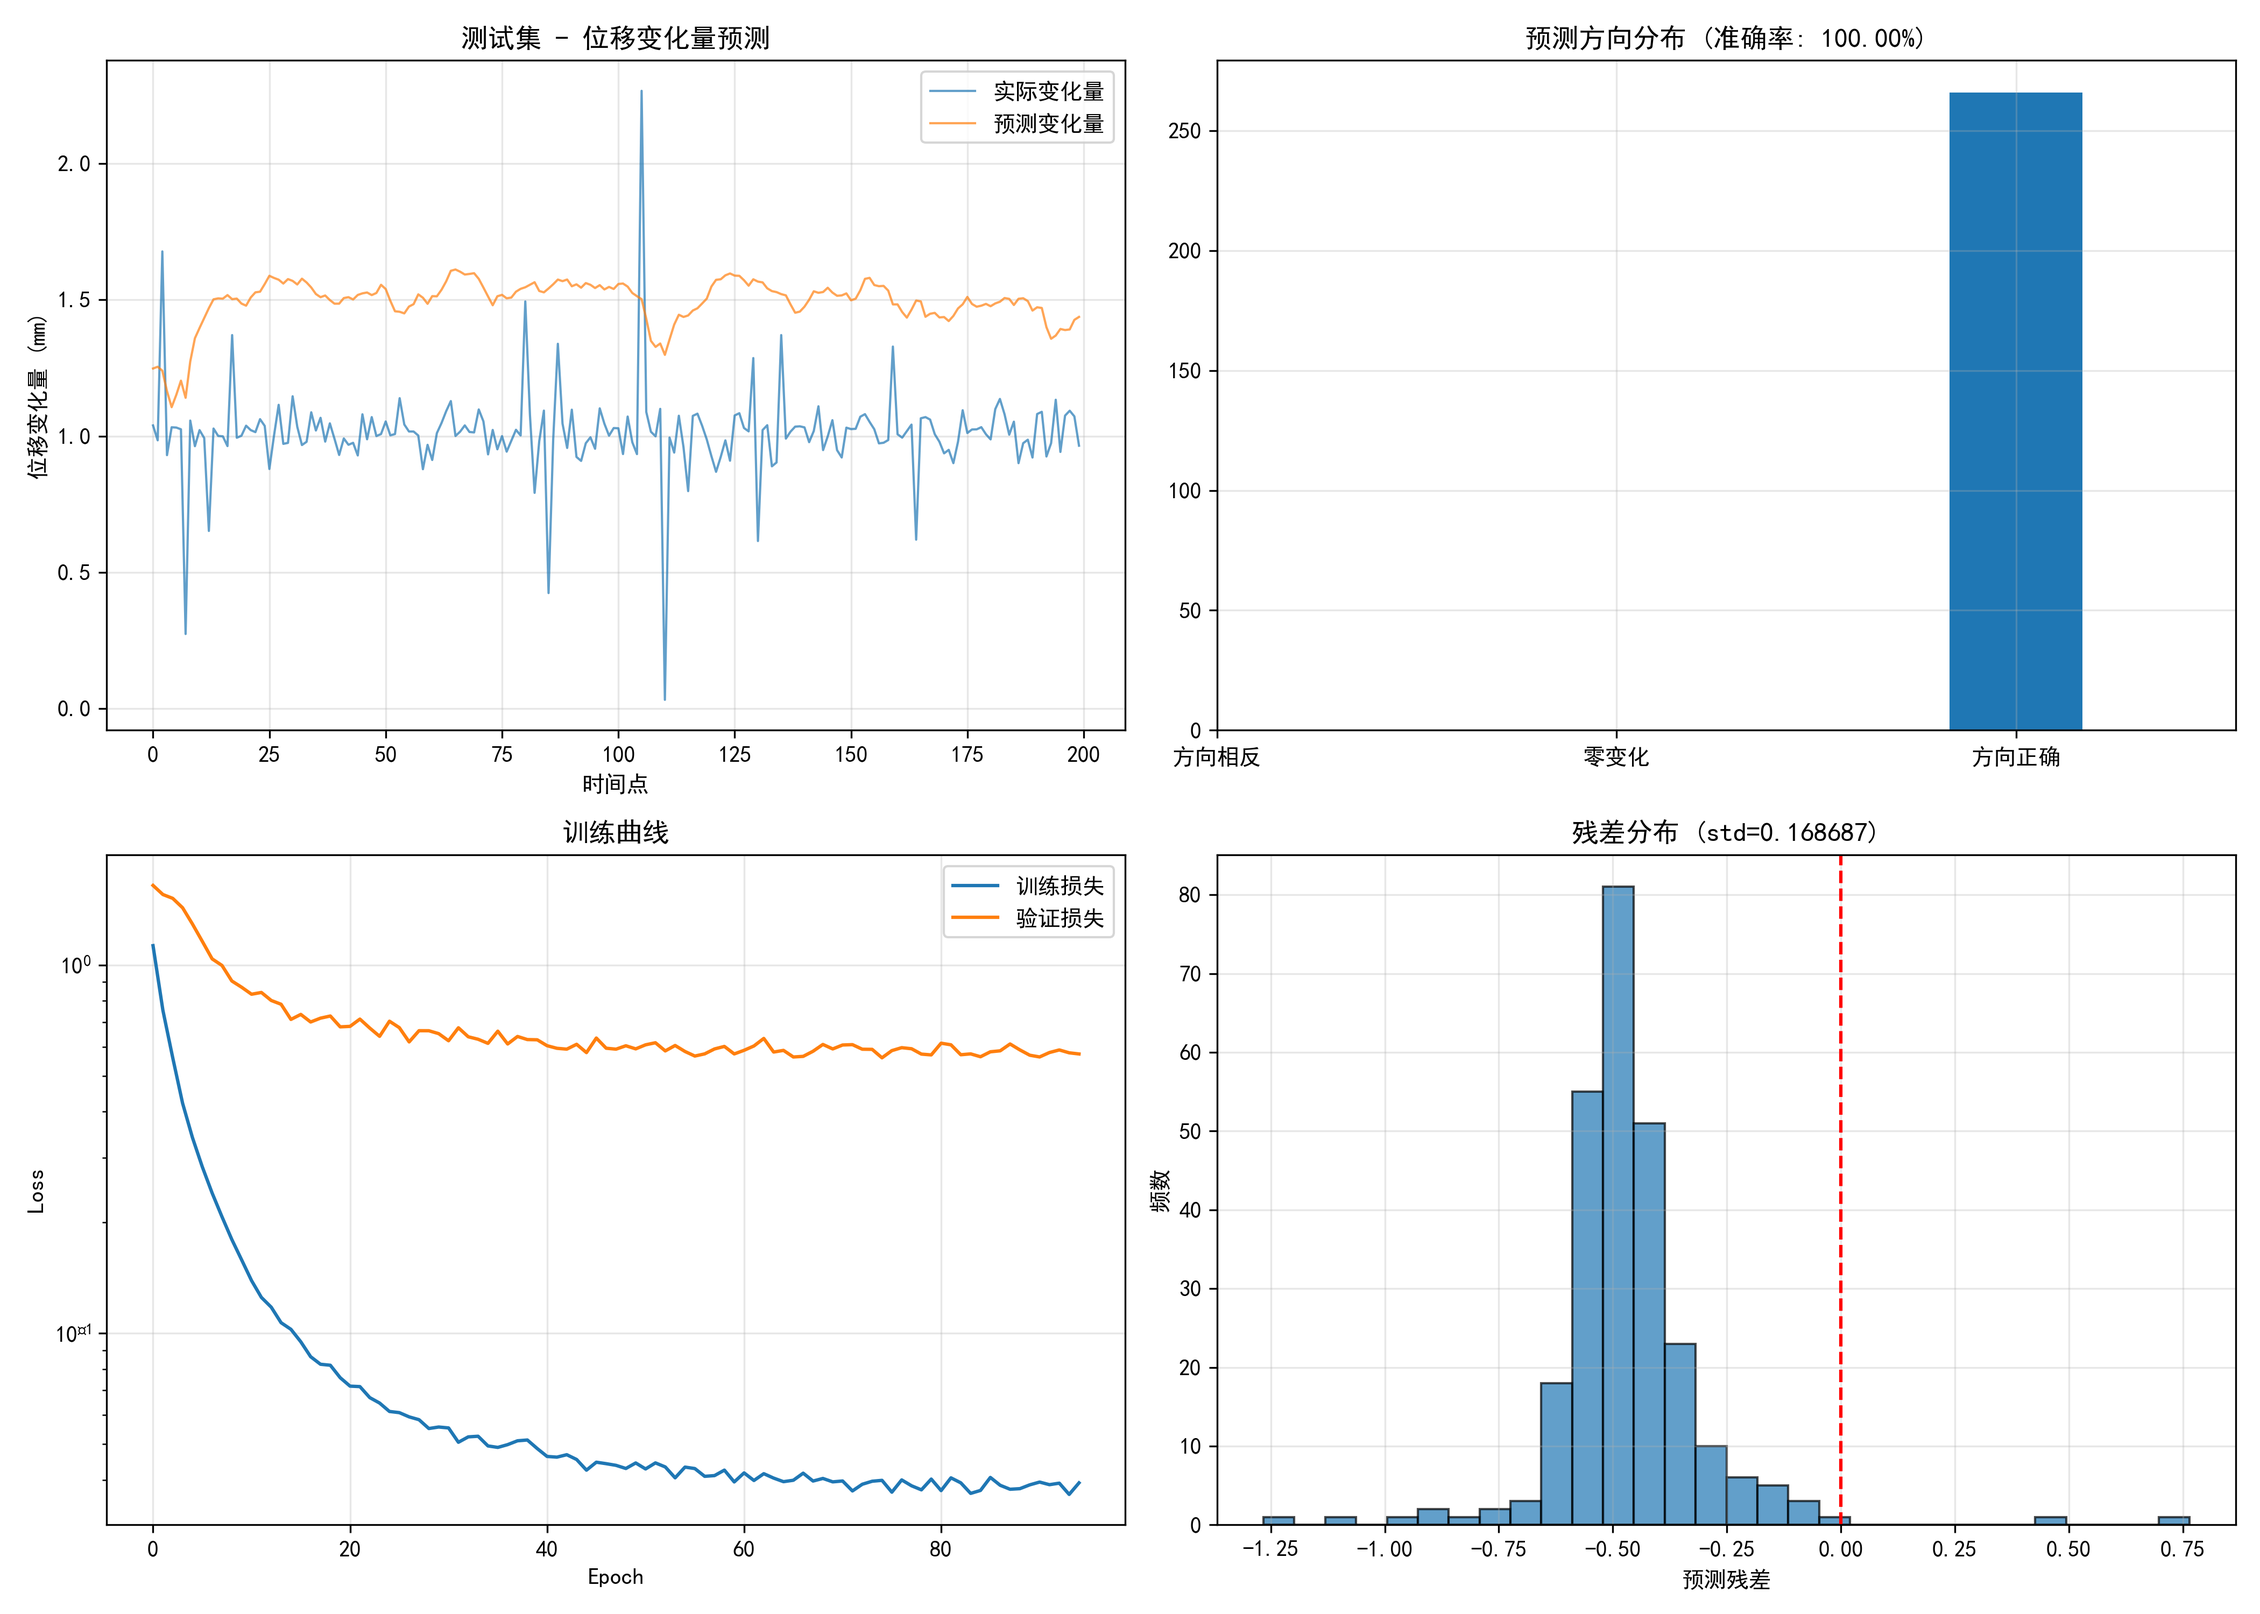
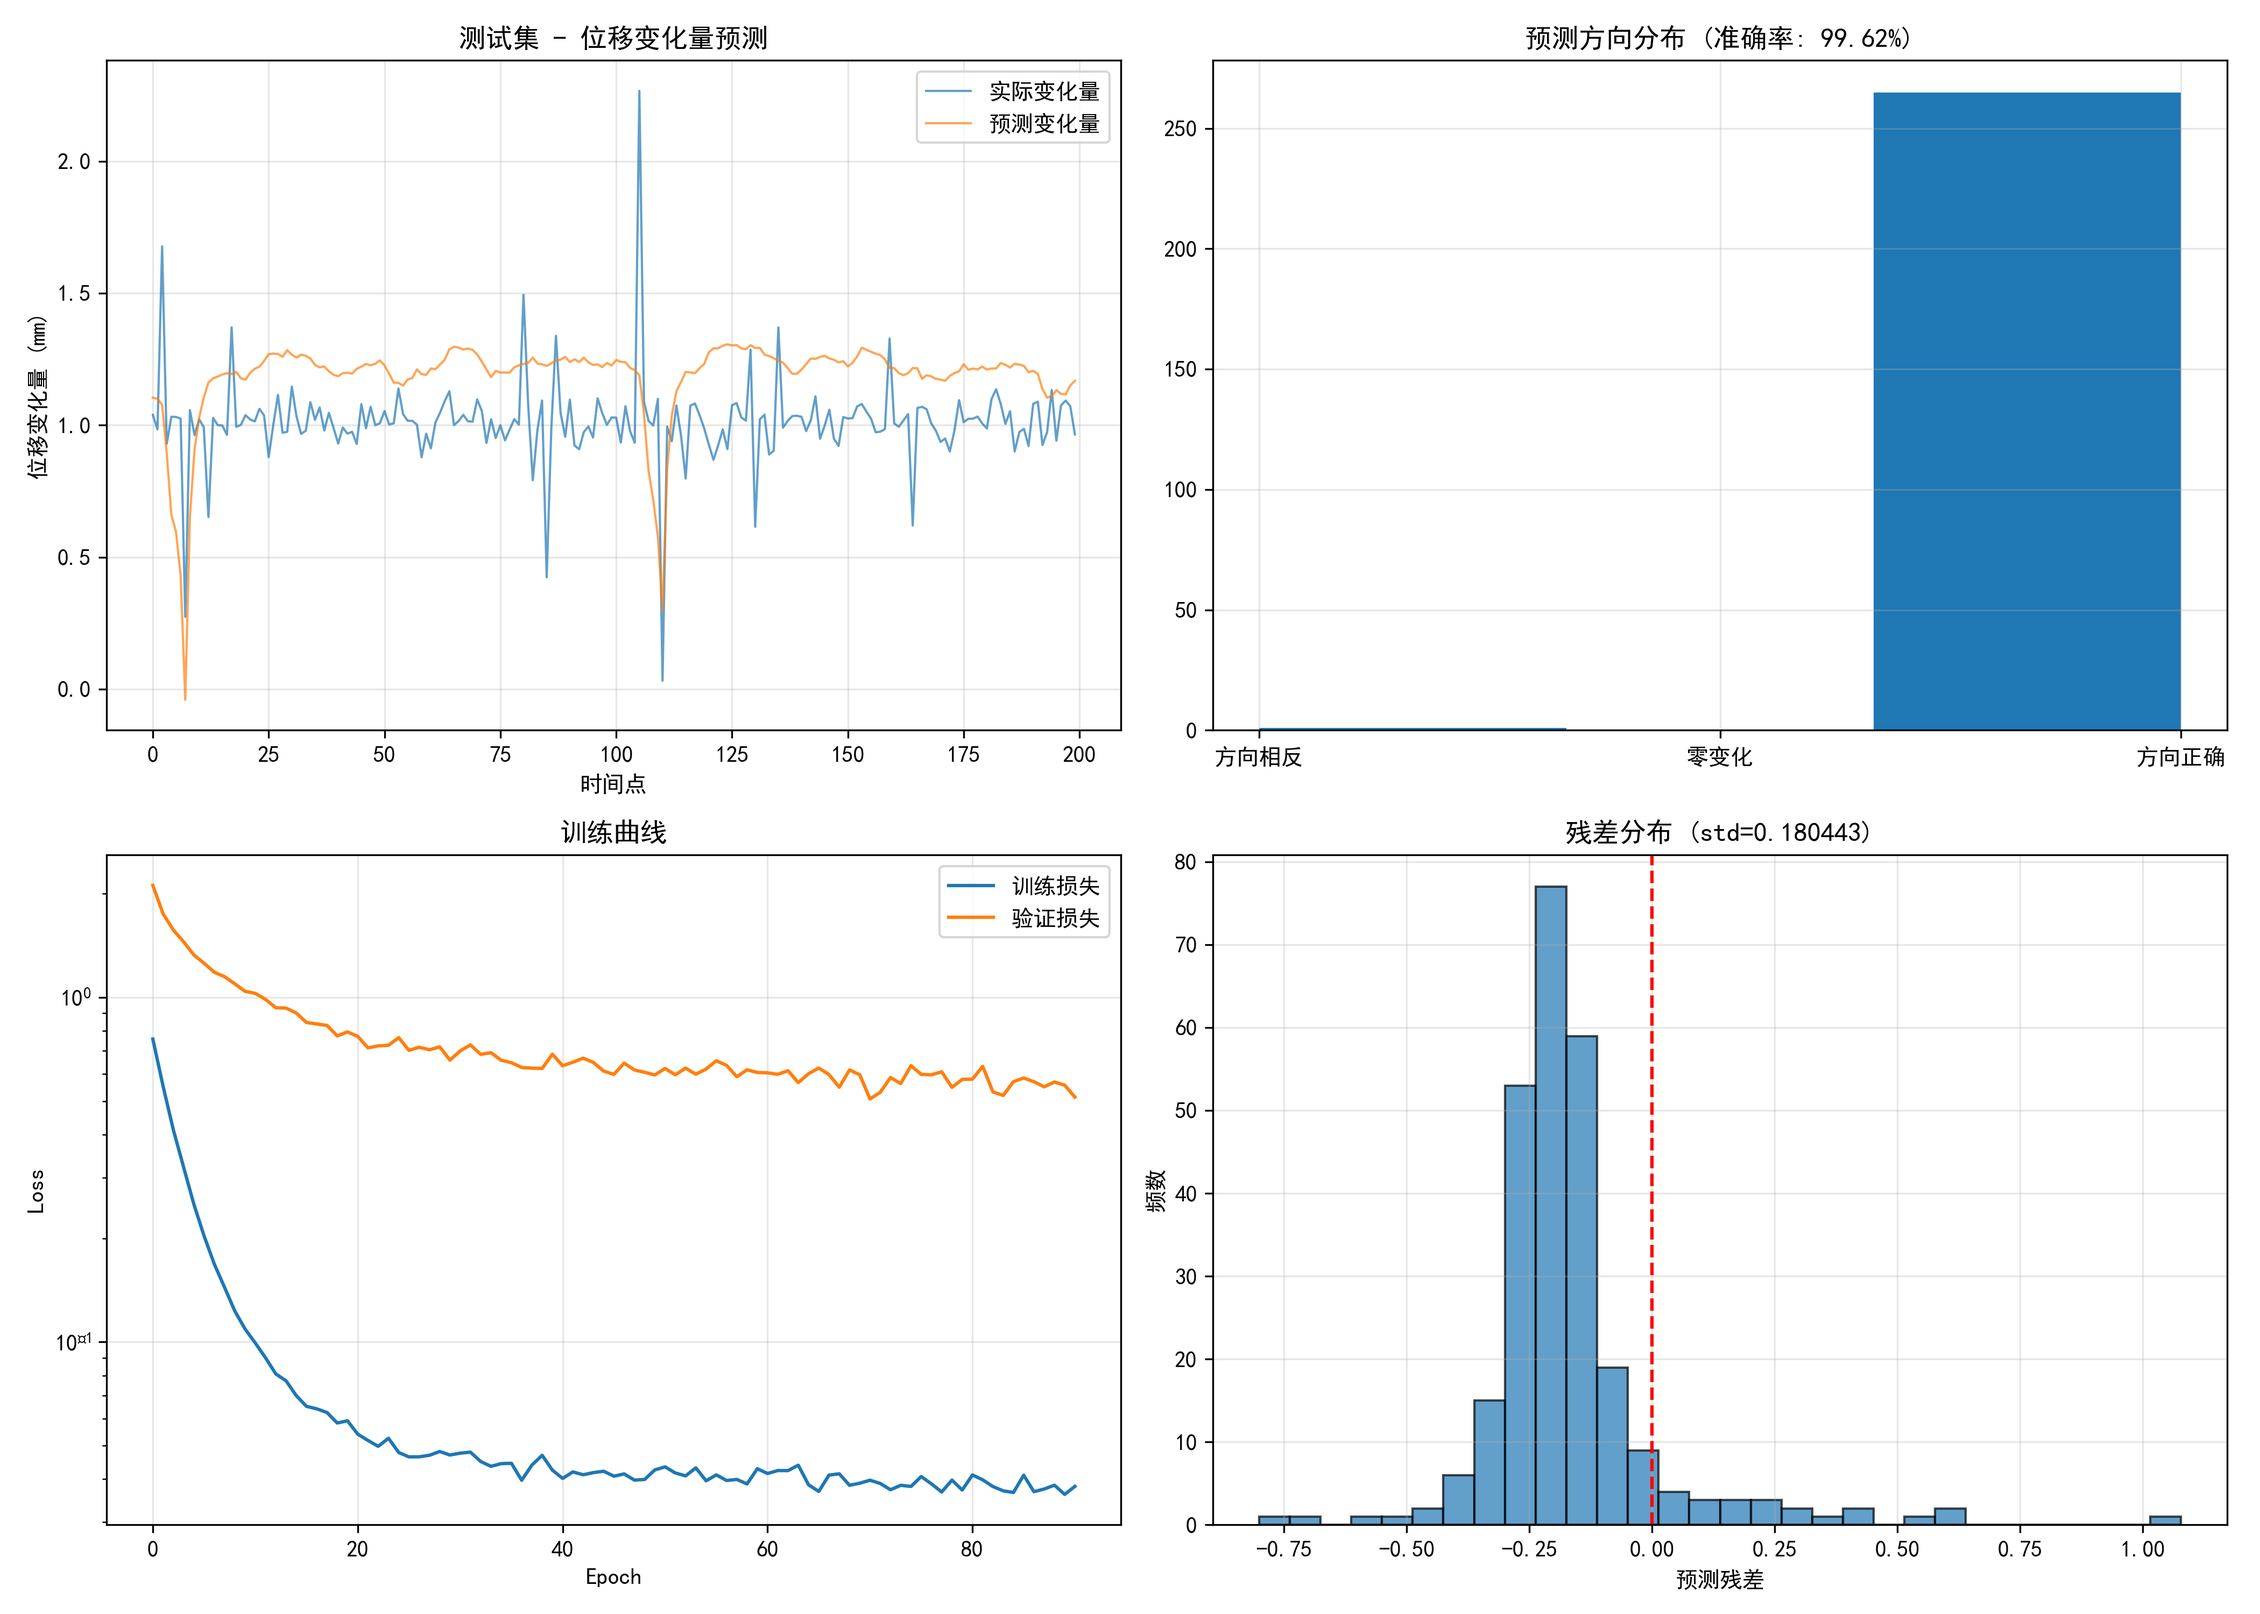
test

diff --git a/q4_training.py b/q4_training.py
@@ -40,17 +40,23 @@ window_size = 5  # 根据你的数据采样频率调整
 df['表面位移_smooth'] = df['表面位移_mm'].rolling(window=window_size, min_periods=1).mean()
 
 # 同样平滑特征
-for col in ['降雨量_mm', '孔隙水压力_kPa', '微震事件数']:
+for col in ['干湿入渗系数', '孔隙水压力_kPa', '微震事件数']:
     df[f'{col}_smooth'] = df[col].rolling(window=3, min_periods=1).mean()
 
 # 使用平滑后的数据
 target_col = '表面位移_smooth'
-feature_cols = ['孔隙水压力_kPa', '微震事件数', '爆破点距离_m',
-                '单段最大药量_kg','干湿入渗系数']
+# feature_cols = ['孔隙水压力_kPa', '微震事件数', '爆破点距离_m',
+#                 '单段最大药量_kg','干湿入渗系数']
 
 # 处理爆破点距离异常
-df['爆破点距离_m'] = df['爆破点距离_m'].replace(1e9, np.nan)
-df['爆破点距离_m'] = df['爆破点距离_m'].fillna(method='ffill').fillna(df['爆破点距离_m'].median())
+# df['爆破点距离_m'] = df['爆破点距离_m'].replace(1e9, np.nan)
+# df['爆破点距离_m'] = df['爆破点距离_m'].fillna(method='ffill').fillna(df['爆破点距离_m'].median())
+
+df['是否爆破'] = (df['单段最大药量_kg'] > 0).astype(int)
+
+# 将是否爆破加入特征列表
+feature_cols = ['孔隙水压力_kPa', '微震事件数', '爆破点距离_m',
+                '单段最大药量_kg', '干湿入渗系数', '是否爆破']
 
 # ==================== 3. 创建滞后特征 ====================
 lag_steps = 5  # 减少滞后步数
